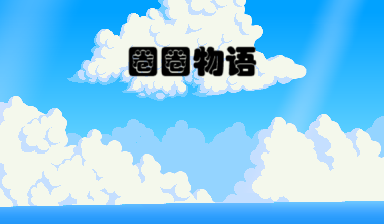
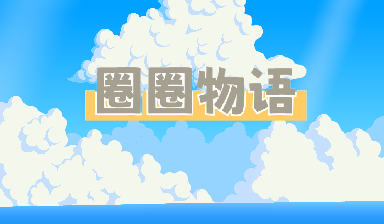
新标题封面

Changed region(s): [[0.2188, 0.1875, 0.8125, 0.5625]]

diff --git a/src/game/StartFrame.java b/src/game/StartFrame.java
@@ -16,7 +16,7 @@ public class StartFrame extends JFrame implements ActionListener {
         setTitle("圈圈物语");
         setIconImage(new ImageIcon(Objects.requireNonNull(
                 getClass().getClassLoader().getResource("assets/logo.png"))).getImage());
-        setSize(1152, 648);
+        setSize(1280, 720);
         setLocationRelativeTo(null);
         setDefaultCloseOperation(JFrame.EXIT_ON_CLOSE);
         setResizable(false);
@@ -29,7 +29,7 @@ public class StartFrame extends JFrame implements ActionListener {
         play.setFocusPainted(false);  // 不显示按钮的焦点矩形
         play.setContentAreaFilled(false); // 去掉按钮的背景色
         play.setBorderPainted(false);  // 去掉按钮的边框
-        play.setBounds((getWidth() - playIcon.getIconWidth()) / 2, 370, playIcon.getIconWidth(), playIcon.getIconHeight());
+        play.setBounds((getWidth() - playIcon.getIconWidth()) / 2, 470, playIcon.getIconWidth(), playIcon.getIconHeight());
         play.addActionListener(this);
         setLayout(null);
         add(play);
